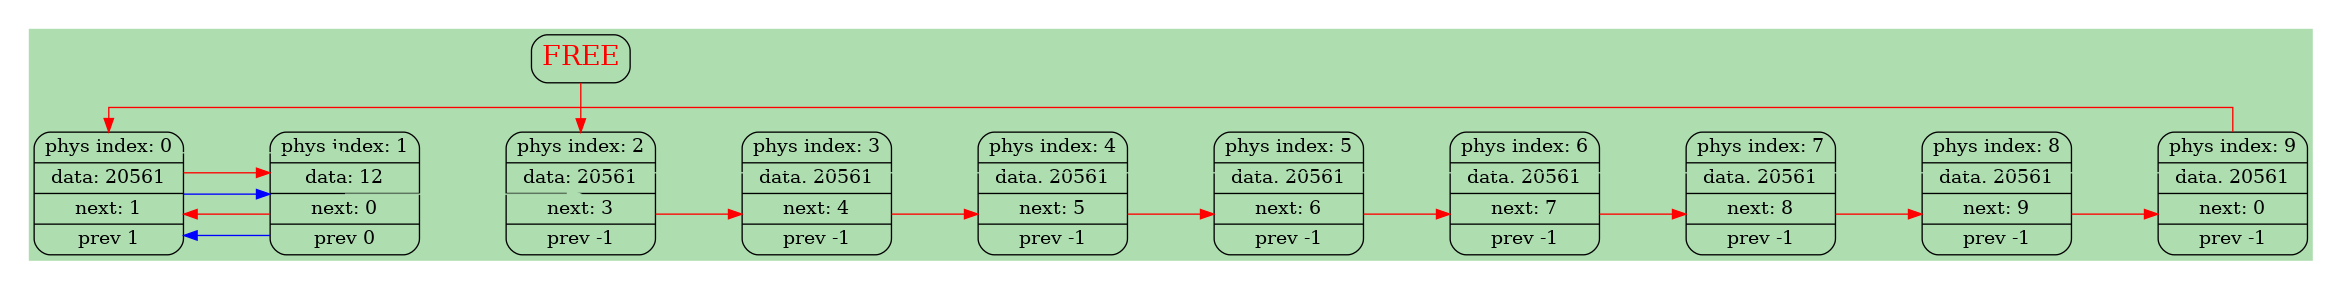
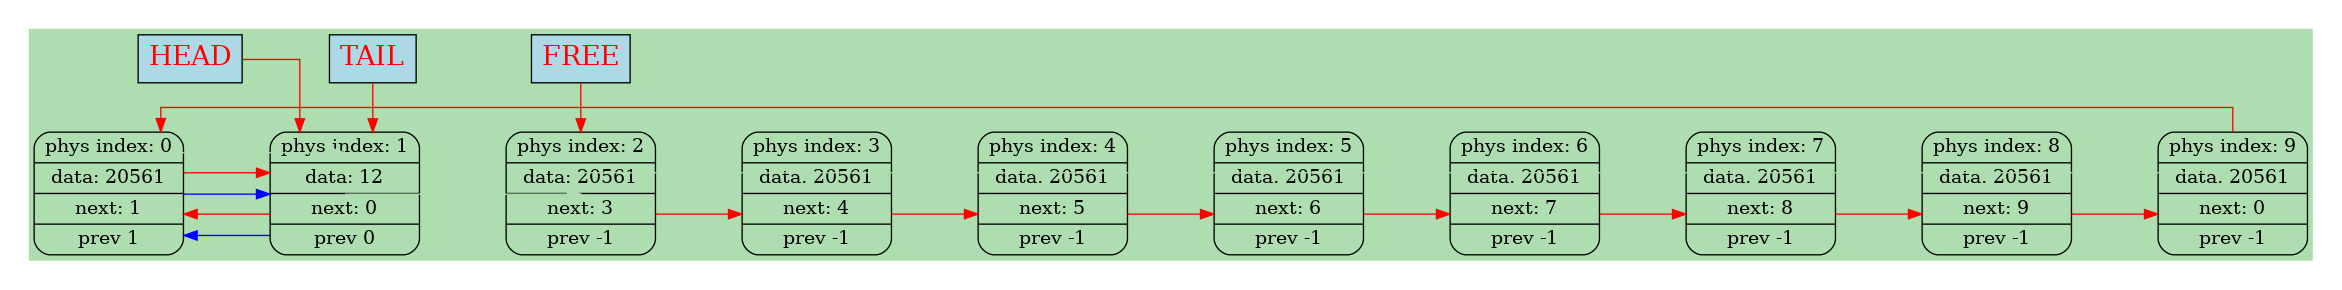
mid commit

diff --git a/src/list_cpps/dumps.cpp b/src/list_cpps/dumps.cpp
@@ -8,8 +8,6 @@
 #include "../list_headers/list.h"
 
 
-
-
 Dump_Errors text_dump(List *list, const char* const text_dump)
 {
     assert(list);
@@ -36,37 +34,6 @@ Dump_Errors text_dump(List *list, const char* const text_dump)
 
     return DUMP_IS_OKAY;
 }
-
-
-
-Dump_Errors graph_dump_preparing(const char* const graph_dump)
-{
-    FILE* graph_dump_file = fopen(graph_dump, "w");
-
-    if(graph_dump_file == nullptr)
-        return GRAPH_DUMP_OPEN_ERR;
-
-
-    fprintf(graph_dump_file,
-            "digraph LIST{\n"
-            "harset=\"UTF-8\";\n"
-            "label = \"MY LIST)\";\n"
-            "rankdir=TB;\n"
-            "node=[fontsize = 9];\n"
-            "bgcolor=\"#0000aa\";\n"
-            "fontcolor=black;\n"
-            "fontsize=18;\n"
-            "style=\"italic\";\n"
-            "margin=0.3;\n"
-            "splines=ortho;\n"
-            "ranksep=1.0;\n"
-            "nodesep=0.9;\n"
-            "bgcolor=\"#ff9c8c\";\n"
-            "edge[color=\"#e8e6a5\"]\n;");
-
-    return DUMP_IS_OKAY;
-}
-
 
 
 Dump_Errors dumps_cleaning(const My_Dump_St General_Dump)
@@ -133,6 +100,7 @@ Dump_Errors graph_dump(const Node_Array My_List, const char* const graph_dump)
     fprintf(graph_dump_file, "\n");
 
 
+
     for(int dump_index = 0; dump_index < LIST_SIZE; dump_index++)
     {
         fprintf(graph_dump_file,
@@ -153,12 +121,24 @@ Dump_Errors graph_dump(const Node_Array My_List, const char* const graph_dump)
 
     fprintf(graph_dump_file, "\n");
 
-    fprintf(graph_dump_file, "FREE [shape = record, fontcolor = \"red\", fontsize = 20, fontstyle = \"bold\","
-                             "label = \"free -> nodes%d\", style = rounded];", My_List.free);
+
+    fprintf(graph_dump_file, "FREE [label = \"free -> nodes%d\", style = rounded, style = \"filled\","
+                             "fillcolor = \"lightblue\", shape = record, fontcolor = \"red\", fontsize = 20,"
+                             "fontstyle = \"bold\",];\n", My_List.free);
 
     fprintf(graph_dump_file, "FREE -> node%d[color = \"red\", headport=n];\n", My_List.free);
 
-    fprintf(graph_dump_file, "\n");
+    fprintf(graph_dump_file, "HEAD [label = \"HEAD -> nodes%d\", style = rounded, style = \"filled\","
+                             "fillcolor = \"lightblue\", shape = record, fontcolor = \"red\", fontsize = 20,"
+                             "fontstyle = \"bold\",];\n", My_List.list[LIST_PHANTOM_INDEX].next);
+
+    fprintf(graph_dump_file, "HEAD -> node%d[color = \"red\", headport=n];\n", My_List.list[LIST_PHANTOM_INDEX].next);
+
+    fprintf(graph_dump_file, "TAIL [label = \"TAIL -> nodes%d\", style = rounded, style = \"filled\","
+                             "fillcolor = \"lightblue\", shape = record, fontcolor = \"red\", fontsize = 20,"
+                             "fontstyle = \"bold\",];\n", My_List.list[LIST_PHANTOM_INDEX].prev);
+
+    fprintf(graph_dump_file, "TAIL -> node%d[color = \"red\", headport=n];\n", My_List.list[LIST_PHANTOM_INDEX].prev);
 
 
     fprintf(graph_dump_file,

diff --git a/src/list_headers/list.h b/src/list_headers/list.h
@@ -21,7 +21,6 @@ static const int LIST_SIZE = 10;
 static const ListElem_t LIST_POISON = 0x5051;
 
 
-
 struct List
 {
     ListElem_t data;
